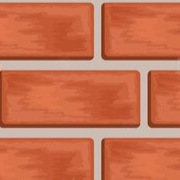
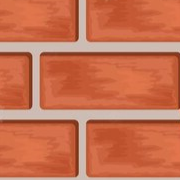
brick walls : increased health

diff --git a/Tank-2D/sprite-loader.h b/Tank-2D/sprite-loader.h
@@ -91,6 +91,9 @@ public:
     const QPixmap &getExplosion5() const;
     void setExplosion5(const QPixmap &newExplosion5);
 
+    const QPixmap &getBrokenBrick() const;
+    void setBrokenBrick(const QPixmap &newBrokenBrick);
+
 private:
     QPixmap yellow_tank_up, yellow_tank_down, yellow_tank_left, yellow_tank_right;
     QPixmap common_tank_up, common_tank_down, common_tank_left, common_tank_right;
@@ -99,7 +102,7 @@ private:
     QPixmap armored_random_tank_up, armored_random_tank_down, armored_random_tank_left, armored_random_tank_right;
     QPixmap tanki, star, clock;
     QPixmap flag;
-    QPixmap brick, stone, water;
+    QPixmap brick, brokenBrick, stone, water;
     QPixmap missile_up, missile_down, missile_left, missile_right;
     QPixmap heart;
     QPixmap cross;

diff --git a/Tank-2D/sprite-loader.cpp b/Tank-2D/sprite-loader.cpp
@@ -164,6 +164,11 @@ SpriteLoader::SpriteLoader()
     sprite = QImage(path + "explosion5.png");
     pixmap = QPixmap::fromImage(sprite);
     explosion5 = pixmap.scaled(GameObject::getWIDTH(), GameObject::getHEIGHT());
+
+    sprite = QImage(path + "broken-brick.png");
+    pixmap = QPixmap::fromImage(sprite);
+    brokenBrick = pixmap.scaled(GameObject::getWIDTH(), GameObject::getHEIGHT());
+
 }
 
 QPixmap SpriteLoader::getYellow_tank_up() const
@@ -395,3 +400,14 @@ void SpriteLoader::setExplosion5(const QPixmap &newExplosion5)
 {
     explosion5 = newExplosion5;
 }
+
+const QPixmap &SpriteLoader::getBrokenBrick() const
+{
+    return brokenBrick;
+}
+
+void SpriteLoader::setBrokenBrick(const QPixmap &newBrokenBrick)
+{
+    brokenBrick = newBrokenBrick;
+}
+

diff --git a/Tank-2D/game.cpp b/Tank-2D/game.cpp
@@ -568,6 +568,9 @@ void Game::detectMissileCollision()
                 //delete objects (not hitboxes only)
                 //do sth cool
                 it->setHealth(it->getHealth() - player.getDamage());
+                if(it->getType() == BRICK){
+                    it->setSprite(spriteLoader->getBrokenBrick());
+                }
                 missiles.erase(itm);
             }
         }

diff --git a/Tank-2D/game-object.cpp b/Tank-2D/game-object.cpp
@@ -60,7 +60,7 @@ GameObject::GameObject(const Type& type, const QPixmap& sprite, const int& x, co
         speed = 2;
     } else if(type == BRICK)
     {
-        this->health = 1;
+        this->health = 2;
         this->damage = 0;
         speed = 0;
     } else if(type == STONE)
